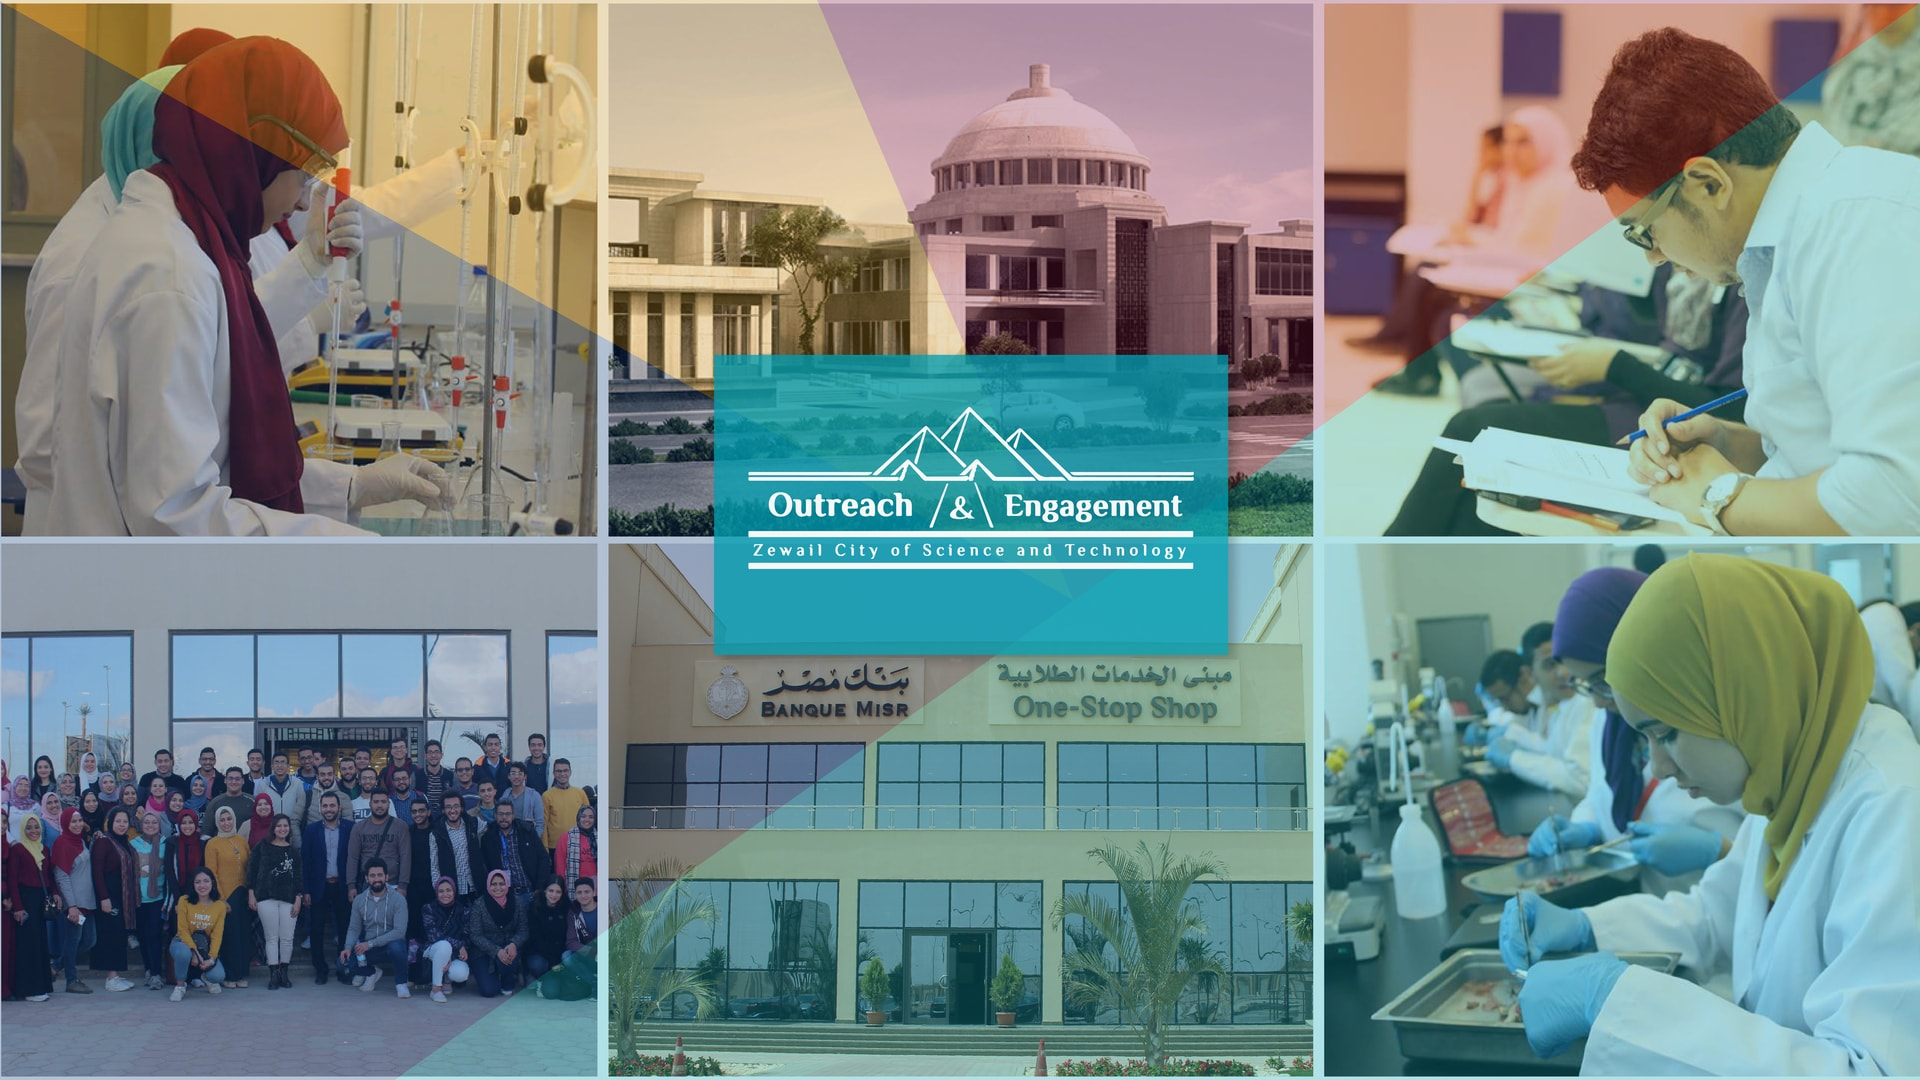
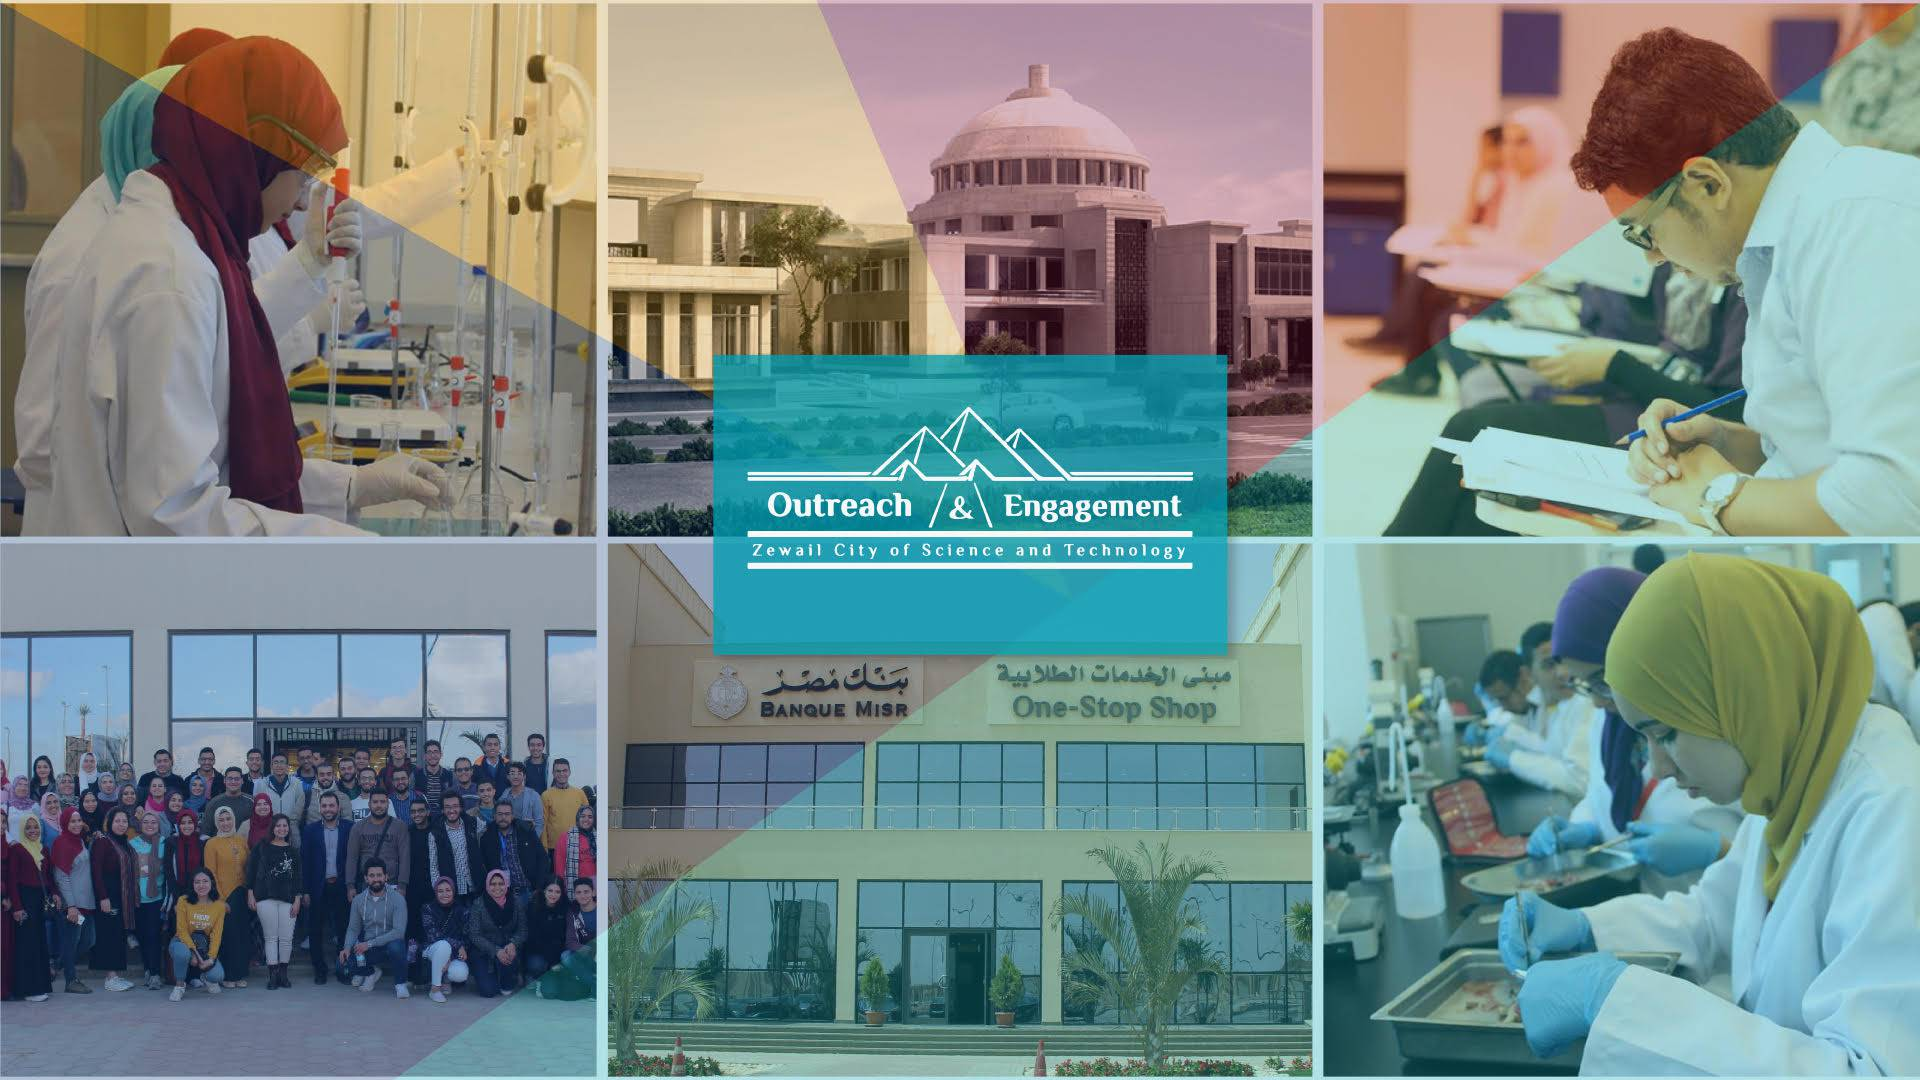
images and optimize the performance of the website

diff --git a/src/main/com/zc/admin/AddCourse/manageCourseBean.java b/src/main/com/zc/admin/AddCourse/manageCourseBean.java
@@ -3,8 +3,11 @@ package main.com.zc.admin.AddCourse;
 import java.awt.image.BufferedImage;
 import java.io.ByteArrayInputStream;
 import java.io.File;
+import java.io.FileOutputStream;
 import java.io.IOException;
+import java.io.OutputStream;
 import java.io.Serializable;
+import java.util.Iterator;
 import java.util.List;
 import java.util.Map;
 
@@ -13,7 +16,12 @@ import javax.faces.bean.ManagedBean;
 import javax.faces.bean.ManagedProperty;
 import javax.faces.bean.SessionScoped;
 import javax.faces.context.FacesContext;
+import javax.imageio.IIOImage;
 import javax.imageio.ImageIO;
+import javax.imageio.ImageWriteParam;
+import javax.imageio.ImageWriter;
+import javax.imageio.stream.ImageOutputStream;
+
 import org.primefaces.PrimeFaces;
 import org.primefaces.event.FileUploadEvent;
 
@@ -82,12 +90,48 @@ public class manageCourseBean implements Serializable{
 	public String saveImageToDirectory(byte[] image,String directory) {
 		String fileName="";
 		try {
-			File file=File.createTempFile("img", ".png", new File(directory));
+			File file=File.createTempFile("img", ".jpg", new File(directory));
 		      byte [] data = image;
 		      ByteArrayInputStream bis = new ByteArrayInputStream(data);
 		      BufferedImage bImage2;
 			bImage2 = ImageIO.read(bis);
-			ImageIO.write(bImage2, "png", file );
+			
+			
+			 
+		        OutputStream os = new FileOutputStream(file);
+			
+			// create a BufferedImage as the result of decoding the supplied InputStream
+	        BufferedImage image2 = bImage2;
+	        
+			// get all image writers for JPG format
+	        Iterator<ImageWriter> writers = ImageIO.getImageWritersByFormatName("jpg");
+	 
+	        float quality = 0.5f;
+	        ImageWriter writer = (ImageWriter) writers.next();
+	        ImageOutputStream ios = ImageIO.createImageOutputStream(os);
+	        writer.setOutput(ios);
+	 
+	        ImageWriteParam param = writer.getDefaultWriteParam();
+	 
+	        // compress to a given quality
+	        param.setCompressionMode(ImageWriteParam.MODE_EXPLICIT);
+	        param.setCompressionQuality(quality);
+	 
+	        // appends a complete image stream containing a single image and
+	        //associated stream and image metadata and thumbnails to the output
+	        writer.write(null, new IIOImage(image2, null, null), param);
+	 
+	     // close all streams
+	        os.close();
+	        ios.close();
+	        writer.dispose();
+			
+			/*int type = bImage2.getType() == 0 ? BufferedImage.TYPE_INT_ARGB : bImage2.getType();
+
+			BufferedImage resizeImageJpg = resizeImage(bImage2, type, 800, 434);
+	        ImageIO.write(resizeImageJpg, "jpg", file); //change path where you want it saved
+
+	        */
 			fileName=file.getName();
 		} catch (IOException e) {
 			// TODO Auto-generated catch block
@@ -98,6 +142,15 @@ public class manageCourseBean implements Serializable{
 	      
 	}
 	
+	/*
+	private static BufferedImage resizeImage(BufferedImage originalImage, int type, int IMG_WIDTH, int IMG_HEIGHT) {
+	    BufferedImage resizedImage = new BufferedImage(IMG_WIDTH, IMG_HEIGHT, type);
+	    Graphics2D g = resizedImage.createGraphics();
+	    g.drawImage(originalImage, 0, 0, IMG_WIDTH, IMG_HEIGHT, null);
+	    g.dispose();
+
+	    return resizedImage;
+	}*/
 	public void previewImage(FileUploadEvent event) {
 
 		
